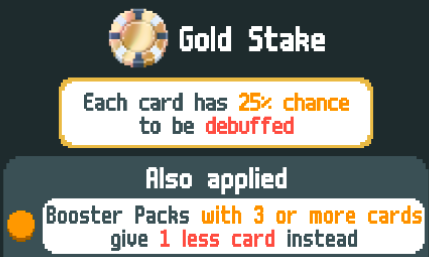
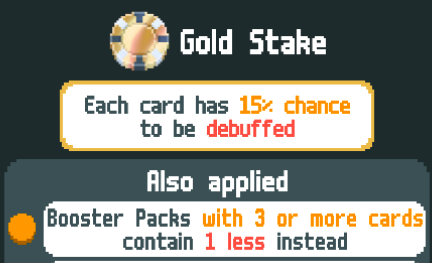
Reduced debuff chance from 25% to 10%

diff --git a/README.md b/README.md
@@ -6,7 +6,7 @@ Requires [Steamodded](https://github.com/Steamopollys/Steamodded).
 # Changes
 
 - **Orange stake**: booster packs keep their base cost instead of scaling with ante, however each booster that has 3 or more cards contains one less instead.
-- **Gold stake**: hand size stays the same, but each card has 25% chance to be debuffed.
+- **Gold stake**: hand size stays the same, but each card has 10% chance to be debuffed.
 
 Cards get rolled for a debuff at the beginning of round, meaning you can get a look at your deck and plan around the debuffs. If you use Arcana cards to transform your playing cards during the round, the transformed card will keep its previous state. Some examples: 
 
@@ -23,5 +23,5 @@ This often leads to resetting a run for a good joker start, eventually trying to
 
 ![Debuffs](Screenshots/debuffs.png)
 
-# Future development
-- Remove debuffs from deck preview when not in a round, doesn't look too nice right now.
+# Changelog
+- Changed debuff chance from 25% to 10%.
